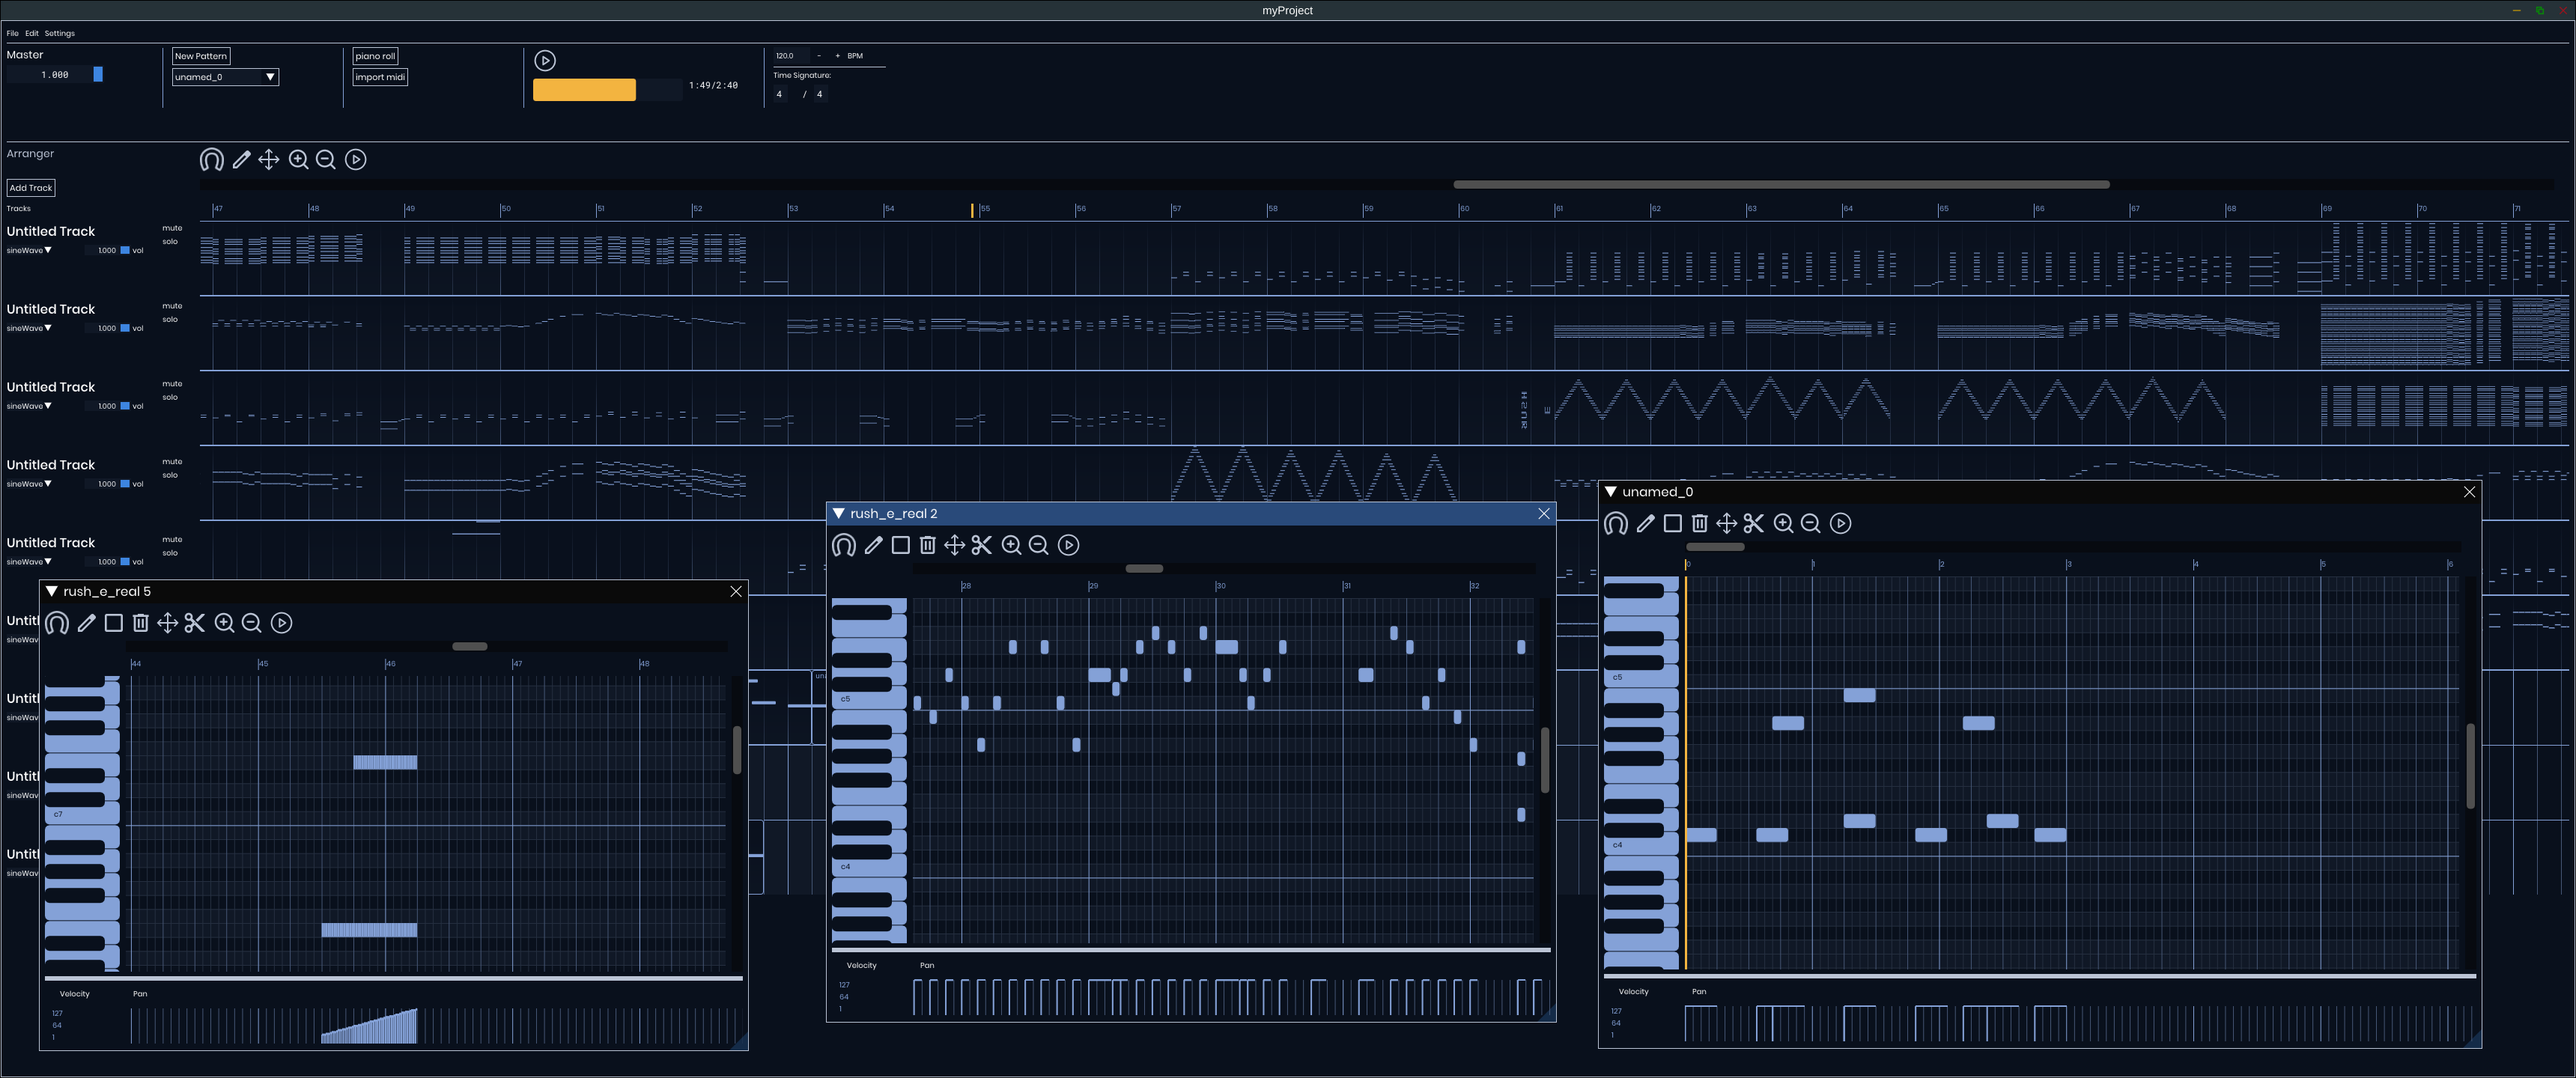
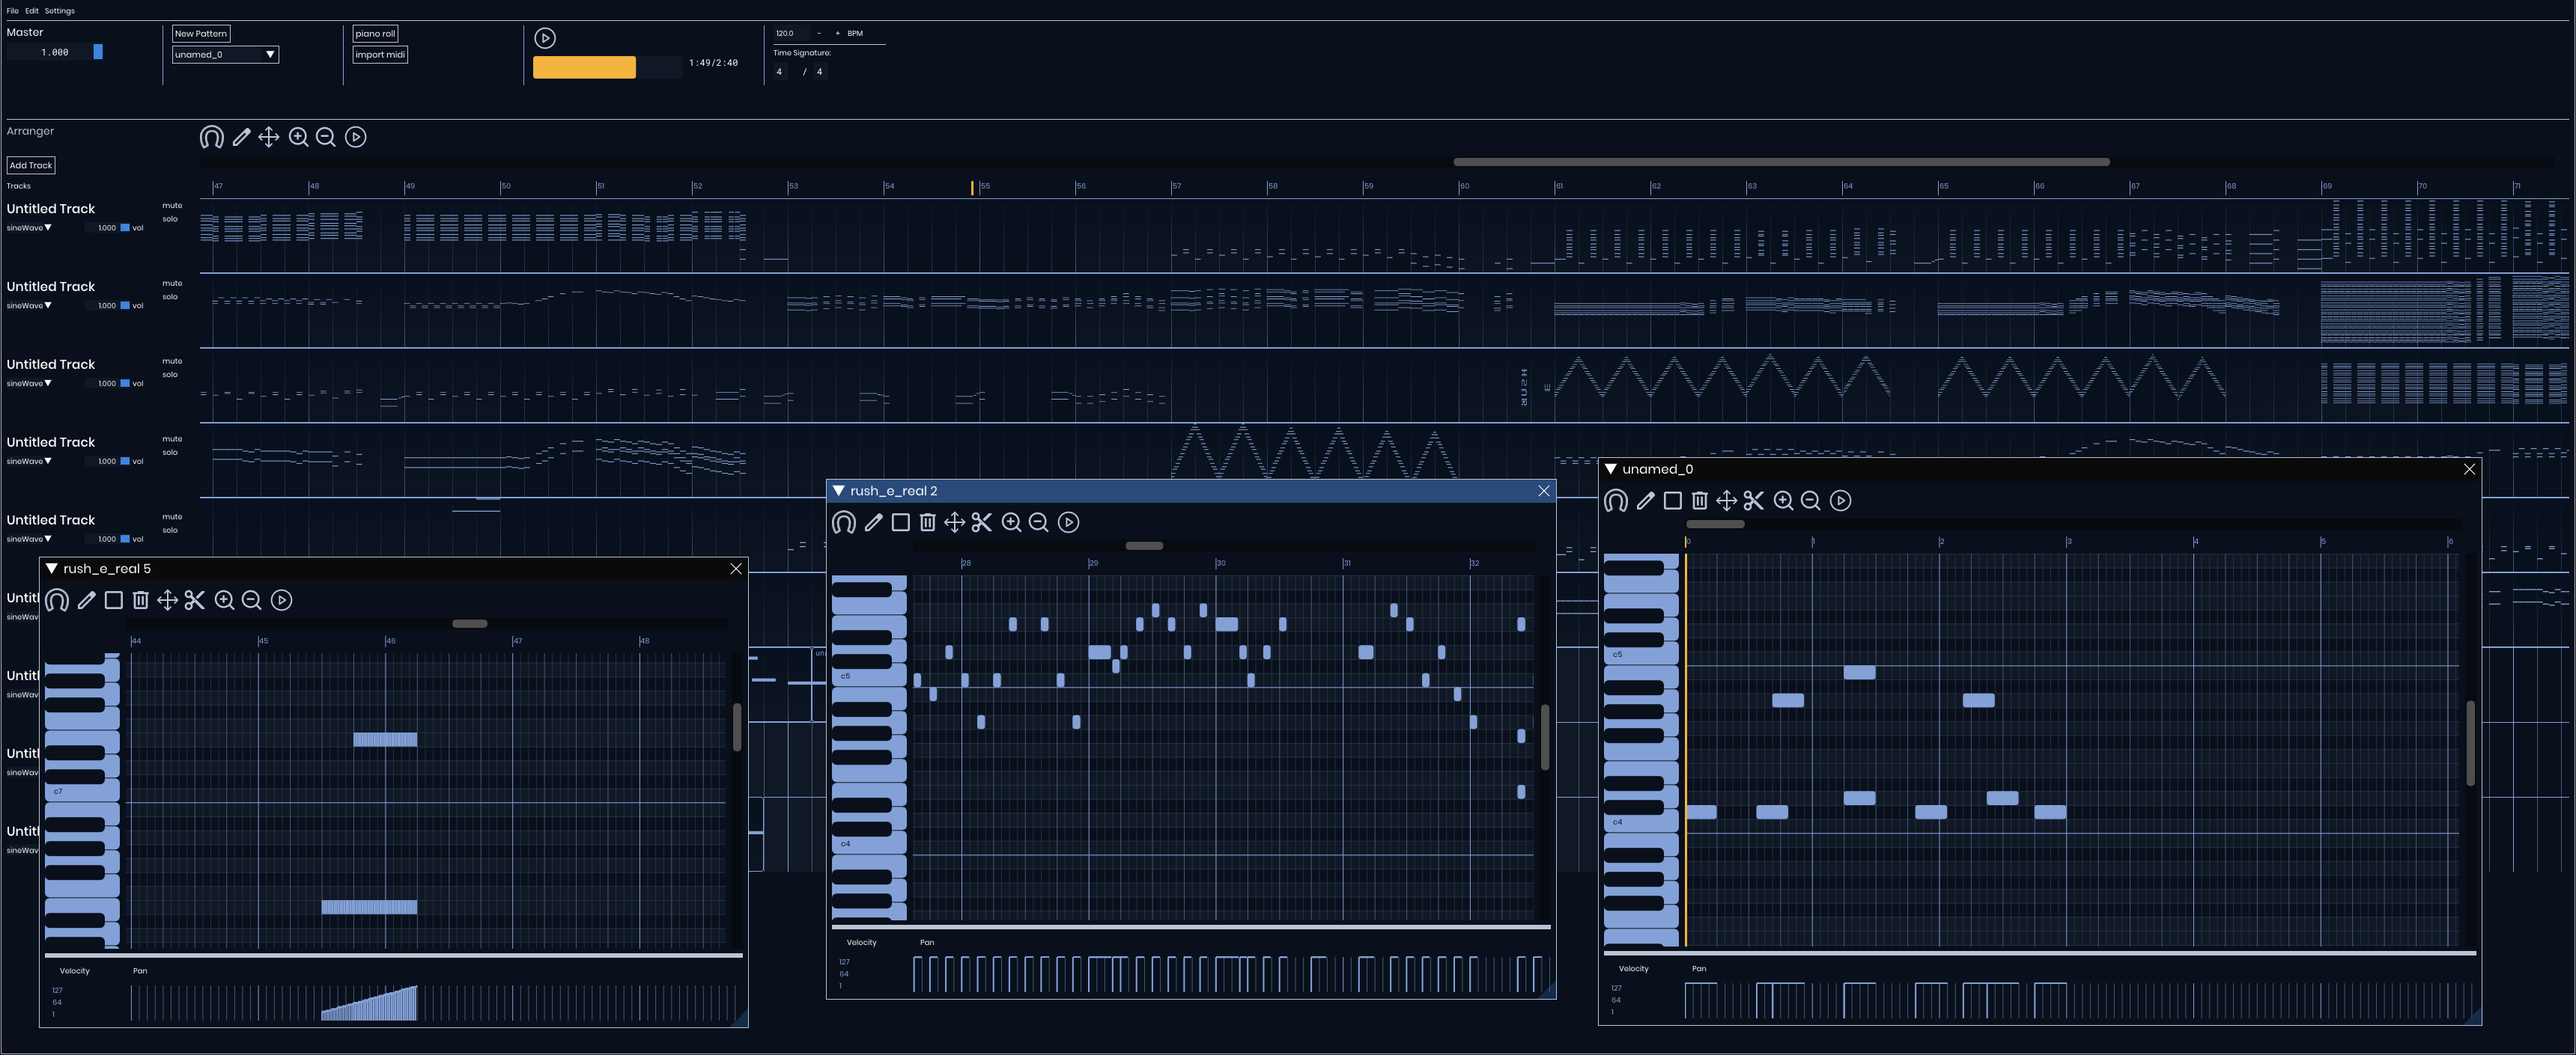
added float effect and fixed text

diff --git a/index.html b/index.html
@@ -18,9 +18,9 @@
 <body class="is-preload">
 
     <div id="wrapper" class="fade-in">
-
+	<div id="floating-container"></div>
         <div id="intro">
-            <h1>MIDI<br />Sequence<br />Editor</h1>
+            <h1>MIDI Sequence<br />Editor</h1>
             <p>A final year project by <strong>Nathan Heaton</strong> — C00286899<br />
                 Building a modern, accessible piano roll editor from the ground up.</p>
             <ul class="actions">
@@ -50,9 +50,8 @@
                     <p>Software for editing and creating MIDI sequences, combining strong technical engineering with a focus on UX/UI design. The project explores what it means to build a real creative tool — not just functional software, but something musicians would actually want to use.</p>
                 </header>
                 <a href="about.html" class="image main"><img src="images/hero_image.png" alt="MIDI Sequence Editor piano roll interface" /></a>
-                <ul class="actions special">
-                    <li><a href="about.html" class="button large">Read More</a></li>
-                </ul>
+				<a href="about.html" class="button large">Read More</a>
+
             </section>
 
             <section class="posts">
@@ -108,18 +107,13 @@
 
                     <div class="full-content">
                         <div class="row">
-                            <div class="col-6 col-12-small">
+                            <div class="col-12 col-12-small">
                                 <h3>The Pattern Engine</h3>
                                 <ul>
                                     <li><strong>Unique 32-bit IDs:</strong> Every MIDI event is tracked by ID rather than index, preventing data corruption during real-time sorts.</li>
                                     <li><strong>High-Res Timing:</strong> Internal resolution of 960 PPQ allows for precise 1/32 note snapping and "free-time" recording.</li>
                                     <li><strong>Pairing Logic:</strong> A specialized <code>NoteEventPair</code> system links on/off events to ensure zero-stray notes.</li>
                                 </ul>
-                            </div>
-                            <div class="col-6 col-12-small">
-                                <div class="video-container">
-                                    <div class="video-placeholder">Video: Multi-Note Selection & Scaling</div>
-                                </div>
                             </div>
                         </div>
                     </div>
@@ -140,7 +134,6 @@
                         </video>
                     </div>
                     <p>Custom C++ logic for reading Standard MIDI Files at the byte level, supporting Format 0 and Format 1.</p>
-
                     <div class="full-content">
                         <div class="row">
                             <div class="col-12 col-12-small">
@@ -168,7 +161,7 @@
 
                     <div class="full-content">
                         <div class="row">
-                            <div class="col-6 col-12-small">
+                            <div class="col-12 col-12-small">
                                 <h3>Signal Path Logic</h3>
                                 <ul>
                                     <li><strong>Buffer Management:</strong> Midi buffer is populated based on pattern or arranger playback.
@@ -184,6 +177,71 @@
                     </ul>
                 </article>
 
+				<article class="feature-article ">
+                    <header>
+                        <span class="date">Design</span>
+                        <h2><a href="javascript:void(0)">Wireframes</a></h2>
+                    </header>
+						<div class="video-container">
+						<img class="image fit" src="images/tracks v3.jpg">
+                    </div>
+                    <p>Showcase of design process, from early stage to fnished product. Elements design in figma</p>
+                    <div class="full-content">
+                        <div class="row">
+                            <div class="col-6 col-12-small">
+                                <h3>Research</h3>
+									<p>I started off by researching other midi and step sequncers, for basic minmial projects,
+										 to full professional DAWs. Test different DAWs interaction note placing, importing. Broke down common their visual architecture and flow. </p>
+                            </div>
+                            <div class="col-6 col-12-small">
+								<img class="image fit" src="images/References.png">
+							</div>
+						</div>	
+						<div class="row">
+							<div class="col-6 col-12-small">
+   								<h3>WireFraming - low Fidelty</h3>
+								<p>Started off with simple box to get a feel for layout, experiment with many different colours shceme but settle on mono tone blue look, with orrange accents</p>
+							</div>		
+							<div class="col-6 col-12-small">
+								<img class="image fit" src="images/tracks.jpg">
+							</div>					
+						</div>
+						<div class="row">
+							<div class="col-6 col-12-small">
+								<img class="image fit" src="images/tracks2.jpg">
+							</div>
+							<div class="col-6 col-12-small">
+								<img class="image fit" src="images/track_designs.jpg">
+							</div>
+                        </div>
+						<div class="row">
+							<div class="col-6 col-12-small">
+   								<h3>Piano Roll Designs</h3>
+								<p>This was the most import thing to get correct this is where the most interaction takes place. 
+									The area that proved most diffiult was bar, beat, subeat and pitch lines lightness and hue
+									 and to be balanced so that each line is unique in tone and also cohesive as a whole. To create 
+									 more speration in I shift the hues and saturation of the highest level lines (bar & octave)
+									<br>DAWs have many different way of visualising their piano some stack evenely spaced white
+									  and black bars, and some go for something inbetween, keeping a piano look while subtly resizing blocks to fit the grid.
+									I went for the more accurate approach meaning octaves have perfect alignment but notes in between are slightly off. </p>
+							</div>		
+							<div class="col-6 col-12-small">
+								<img class="image fit" src="images/Midi pattern window v3.jpg">
+							</div>					
+						</div>
+						<div class="row">
+							<div class="col-12 col-12-small">
+								<h3>Full Figma Page</h3>
+								<p>To see designs and iteration more deeply you can look at my <a href="https://www.figma.com/design/Rw2AqYbRbayn0j8poMgj72/Midi-Sequence-Editor?node-id=113-225&t=zyxl4vQd29Ev7e4e-1">
+								figma page</a></p>
+
+							</div>
+                        </div>
+                    </div>
+                    <ul class="actions special">
+                        <li><a href="javascript:void(0)" class="button learn-more-btn">Learn More</a></li>
+                    </ul>
+                </article>
             </section>
 
             <footer>

diff --git a/assets/css/custom.css b/assets/css/custom.css
@@ -230,11 +230,13 @@ header.major > .date:after {
 /* ── UPDATED EXPANDED CONTENT PADDING ────────────────────── */
 
 article.expanded .full-content {
-    display: block;
+	display: flex;
     opacity: 1;
     margin-top: 2rem;
     /* Added padding to prevent content from touching the article borders */
     padding: 1rem 2rem; 
+	flex-direction: row;
+	flex-wrap: wrap;
     border-top: 1px solid var(--col-border);
     transition: opacity 0.5s ease-in;
 }
@@ -263,23 +265,71 @@ article.expanded {
     background-color: #162235 !important;
     padding-bottom: 3rem;
     z-index: 10;
+
 }
 
 /* Internal content logic */
 article .full-content {
     display: none; /* Hide completely when not expanded */
     opacity: 0;
+	
 }
 
 article.expanded .full-content {
-    display: block;
+	display: flex;
     max-height: none; /* Let the content define the height */
+	flex-direction: row;
+	flex-wrap: wrap;
     opacity: 1;
     margin-top: 2rem;
     padding: 2rem;
     transition: opacity 0.5s ease-in;
 }
 
+/* ── FLOATING ASSETS ────────────────────────────────────── */
+
+
+#floating-container {
+    position: absolute;
+    top: 0;
+    left: 0;
+    width: 100%;
+    height: 100%; /* Matches the intro height */
+    overflow: hidden;
+    pointer-events: none;
+    z-index: 1; /* Sits behind intro text but above background */
+}
+
+.floating-asset {
+    position: absolute;
+    right: -100px; /* Start off-screen to the right */
+    opacity: 1; /* Sublte transparency */    user-select: none;
+filter: contrast(106%) saturate(100%) drop-shadow(0px 50px 9px rgba(0,0,0,0.5));
+    will-change: transform;
+}
+
+/* The vertical "bobbing" motion */
+@keyframes floatUp {
+    0%, 100% { transform: translateY(0); }
+    50% { transform: translateY(-30px); }
+}
+
+@keyframes scrollLeft {
+    0% { 
+        left: 110vw; 
+        opacity: 0; 
+    }
+    10% { 
+        opacity: .9; /* Fade in quickly at the start */
+    }
+    90% { 
+        opacity: .9; /* Stay visible most of the way */
+    }
+    100% { 
+        left: -10vw; 
+        opacity: 0; /* Smoothly fade to nothing */
+    }
+}
 /* Mobile Responsiveness */
 @media screen and (max-width: 980px) {
     #main > .posts {

diff --git a/assets/js/main.js b/assets/js/main.js
@@ -4,6 +4,57 @@
 	Free for personal and commercial use under the CCA 3.0 license (html5up.net/license)
 */
 
+const floatingContainer = document.getElementById('floating-container');
+
+// List of your image paths (Add your actual note icons here)
+const assets = [
+    'images/floating1.png', 
+    'images/floating2.png', 
+    'images/floatingNever.png',
+    'images/floatingTokyo.png'
+];
+
+function createFloatingAsset(initialX = 0) {
+	console.log("creating");
+    const asset = document.createElement('img');
+    
+    // 1. Randomize Asset
+    const randomImg = assets[Math.floor(Math.random() * assets.length)];
+    asset.src = randomImg;
+    asset.className = 'floating-asset';
+    
+    // 2. Randomize Position & Scale
+    const startY = Math.random()  * 490 + 10;
+    const size = Math.random() * (200 - 100) + 500; 
+    const duration = Math.random() * (17 - 15) + 20; 
+    const bobSpeed = Math.random() * (5 - 2) + 12; 
+    
+    asset.style.top = `${startY}vh`;
+    asset.style.width = `${size}px`;
+	asset.style.right = `${initialX}`;
+    
+    // 3. Apply Animations
+    // Combined: move left across screen + bob up and down
+    asset.style.animation = `
+        scrollLeft ${duration}s linear forwards, 
+        floatUp ${bobSpeed}s ease-in-out infinite
+    `;
+    
+    floatingContainer.appendChild(asset);
+    
+    // 4. Cleanup: Remove after it finishes scrolling
+    setTimeout(() => {
+        asset.remove();
+    }, duration * 1500);
+}
+
+setInterval(createFloatingAsset, 1800);
+
+// Spawn a few immediately on load
+for(let i = 0; i < 3; i++) {
+    setTimeout(createFloatingAsset(-800), Math.random() * 500);
+}
+
 
 (function($) {
 

diff --git a/about.html b/about.html
@@ -72,15 +72,8 @@
 					</ul>
 
 					<h2>UX & Design Process</h2>
-					<p>Design is treated as a first-class citizen. The workflow includes wireframing in Figma and user journey mapping to ensure the tool-based interaction (Edit, Select, Snip, Move) feels intuitive to veterans of industry-standard DAWs like FL Studio or Ableton Live.</p>
+					<p>Design is treated as a first-class citizen. The workflow includes wireframing in Figma and user testing to ensure the tool-based interaction (Edit, Select, Snip, Move) feels intuitive to veterans of industry-standard DAWs like FL Studio or Ableton Live.</p>
 
-					<h2>Advanced Features & Stretch Goals</h2>
-					<p>With the core engine stabilized, the project is expanding into deeper signal processing:</p>
-					<ul>
-						<li><strong>Proportional Scaling:</strong> A dedicated widget for time-stretching entire selections of notes.</li>
-						<li><strong>Internal DSP:</strong> Expanding the <code>SineWaveVoice</code> implementation to include ADSR envelopes and basic filter structures.</li>
-						<li><strong>Timeline Auto-Expansion:</strong> A dynamic arranger that scales the project length in real-time as the user approaches the end of the timeline.</li>
-					</ul>
 					<h2>Motivation & Goals</h2>
 					<p>The motivation comes from a genuine interest in MIDI processing and DAWs. Building creative software tools is a distinct UX challenge
 						 — the user is both a technical operator and an artist — and that tension is what makes the problem interesting. 

diff --git a/assets/css/main.css b/assets/css/main.css
@@ -2682,10 +2682,10 @@ input, select, textarea {
 		}
 
 		ul.actions.special {
-			-moz-justify-content: center;
-			-webkit-justify-content: center;
-			-ms-justify-content: center;
-			justify-content: center;
+			-moz-justify-content: left;
+			-webkit-justify-content: left;
+			-ms-justify-content: left;
+			justify-content: left;
 			width: 100%;
 			margin-left: 0;
 		}
@@ -2755,7 +2755,7 @@ input, select, textarea {
 					-ms-flex-shrink: 1;
 					flex-shrink: 1;
 					padding: 1rem 0 0 0;
-					text-align: center;
+					text-align: left;
 					width: 100%;
 				}
 
@@ -2808,7 +2808,7 @@ input, select, textarea {
 				height: 2.25rem;
 				line-height: 2.25rem;
 				display: inline-block;
-				text-align: center;
+				text-align: left;
 				border-radius: 100%;
 				font-size: 1.25rem;
 			}
@@ -2891,7 +2891,7 @@ input, select, textarea {
 /* Section/Article */
 
 	section.special, article.special {
-		text-align: center;
+		text-align: left;
 	}
 
 	header {
@@ -3844,12 +3844,12 @@ input, select, textarea {
 			}
 
 			#main > .posts > * {
-				padding: 4rem;
+				padding: 1rem 3em;
 				width: 50%;
 			}
 
 			#main > .posts > article {
-				text-align: center;
+				text-align: left;
 			}
 
 				#main > .posts > article > :last-child {
